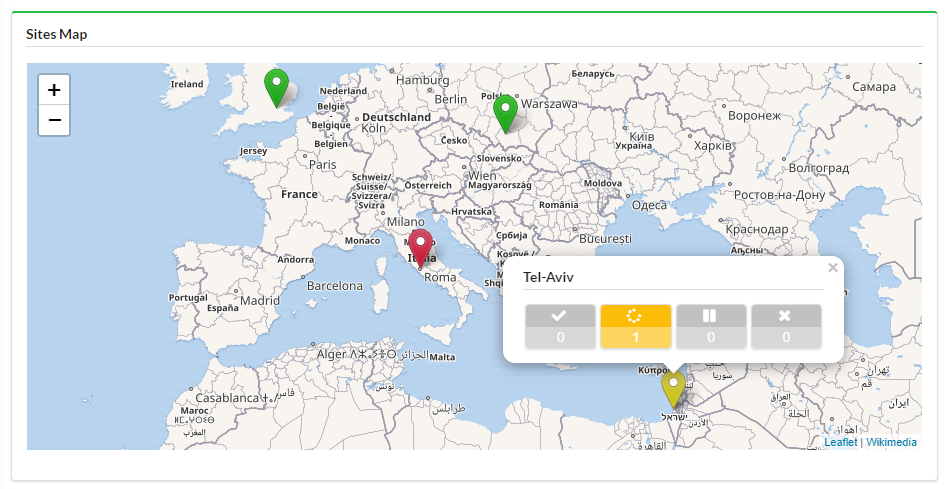
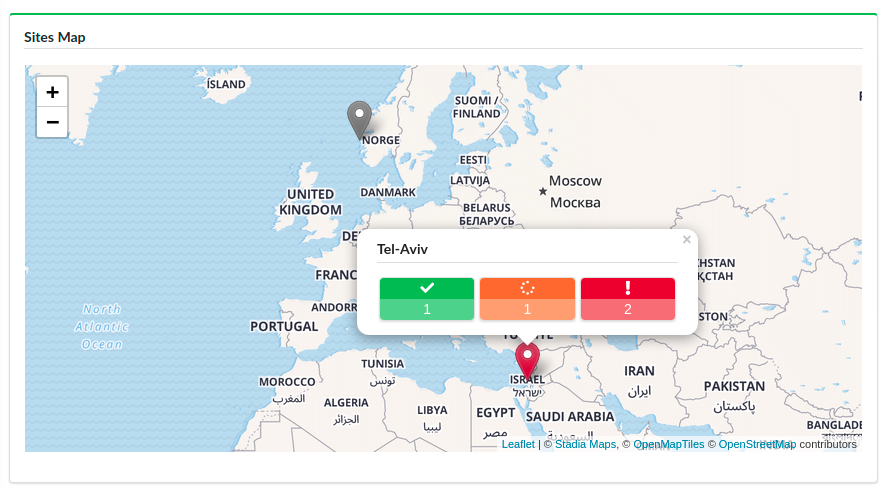
Update Sites Map widget documentation page

diff --git a/content/working_with/console/widgets/sitesMap.md b/content/working_with/console/widgets/sitesMap.md
@@ -23,10 +23,9 @@ After clicking the site marker on the map, the user is presented with a popup wi
 
 Site details contain information about deployments' statuses, indicated as follows:
 
-* **Green** - the number of deployments with all nodes successfully started.
-* **Yellow** - the number of deployments in which active workflow execution is performed.
-* **Blue** - the number of deployments with non-started nodes.
-* **Red** - the number of deployments with failed workflow execution.
+* **Green** - the number of deployments with all nodes in active state, and a successful last workflow execution.
+* **Orange** - the number of deployments in which active workflow execution is performed.
+* **Red** - the number of deployments with inactive nodes or a failed last workflow execution.
 
 
 ## Map provider
